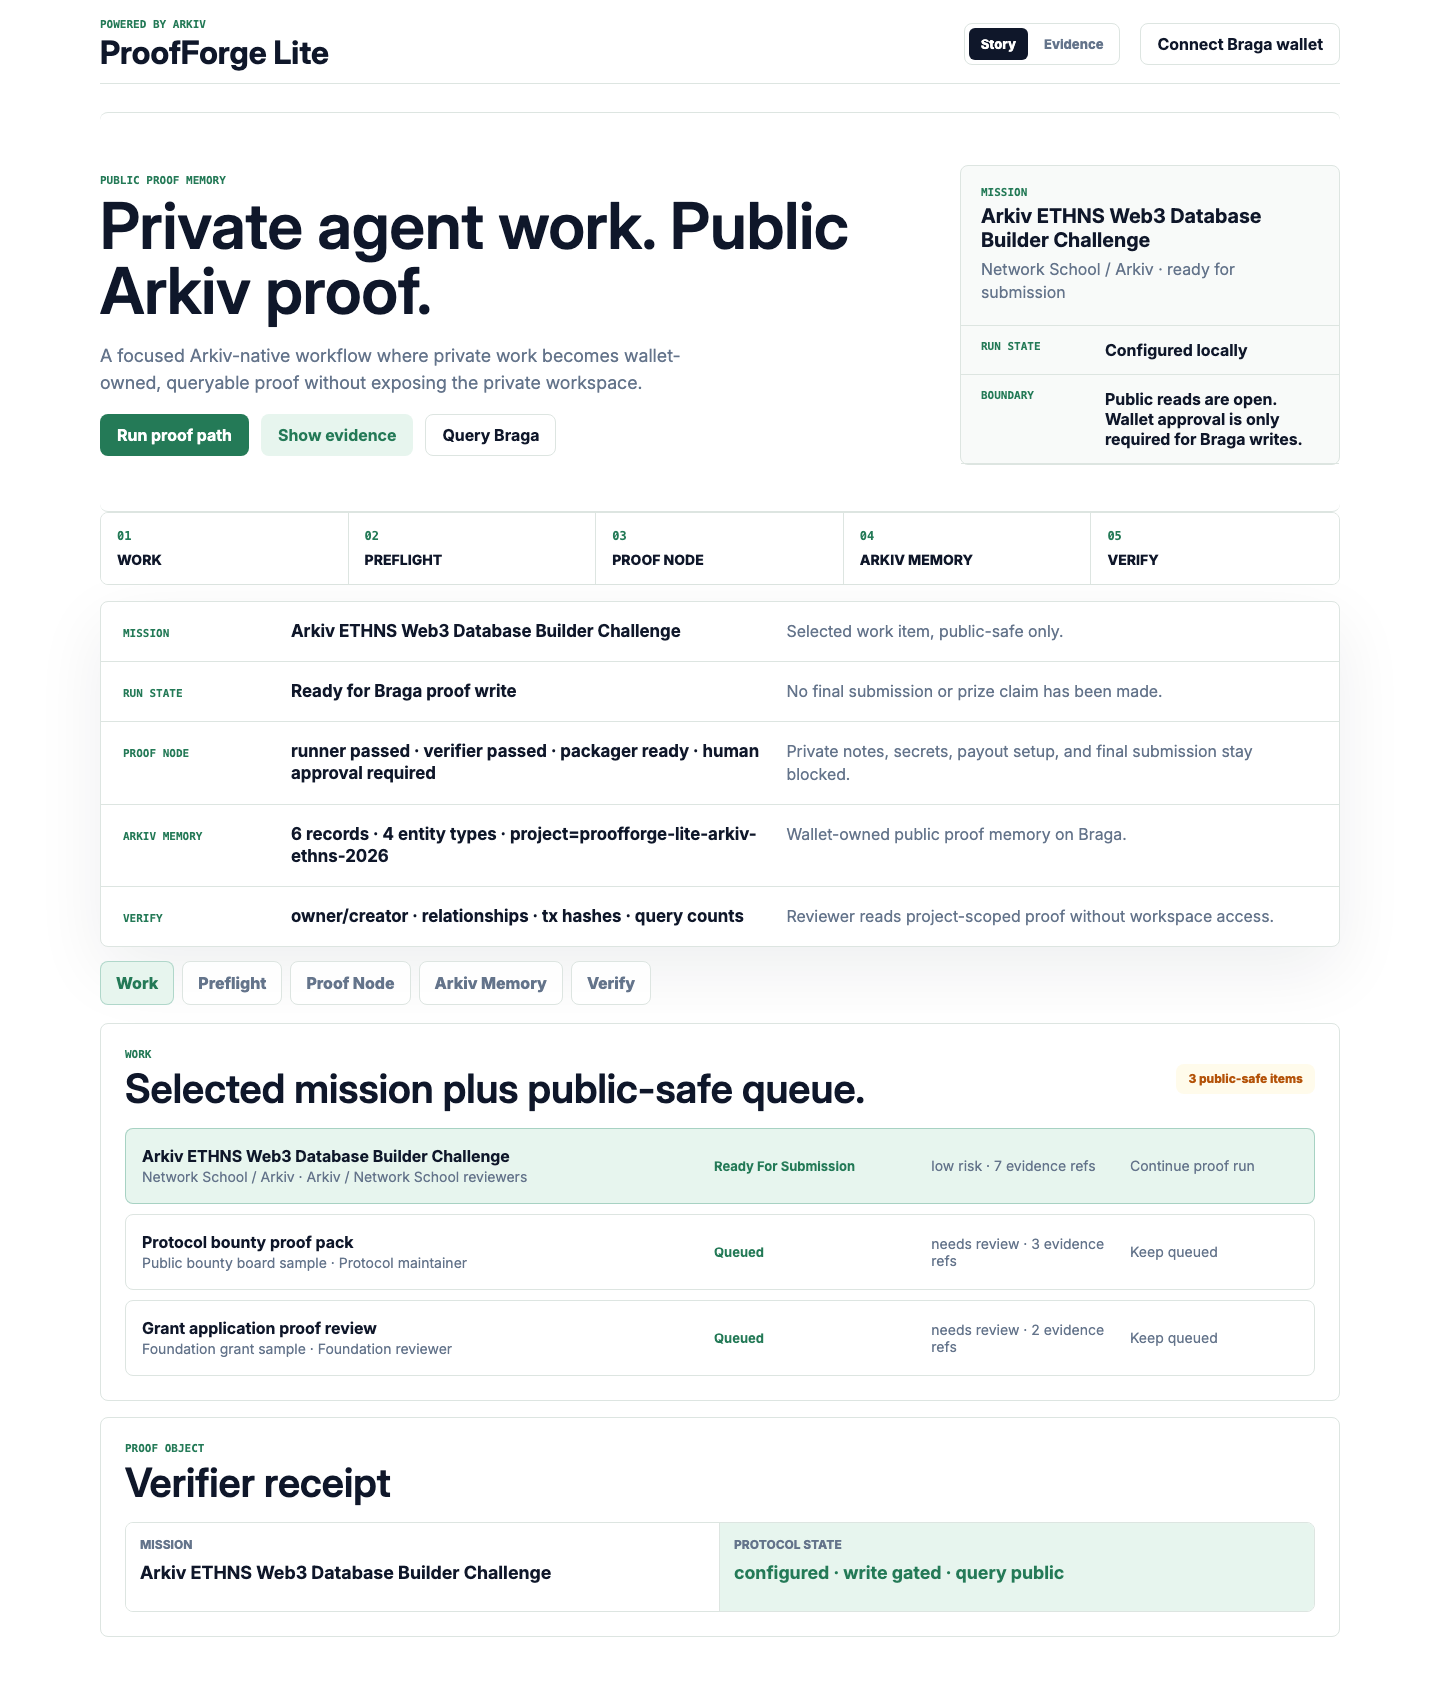
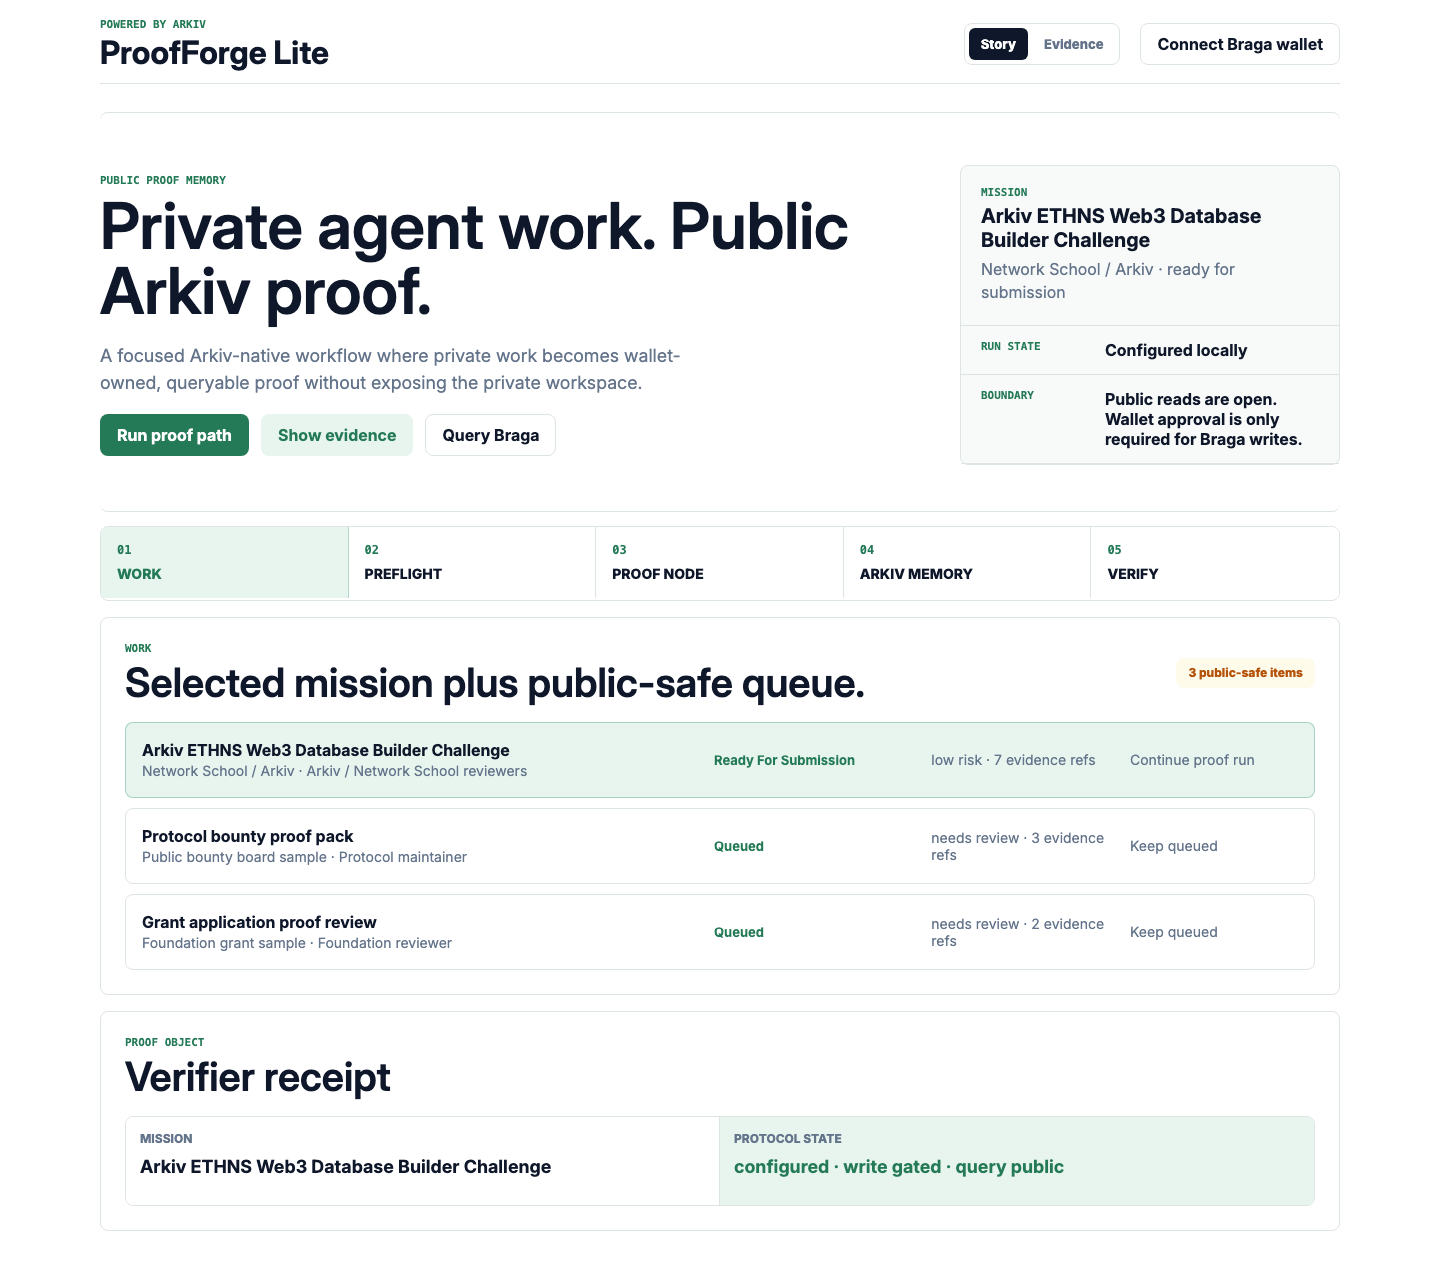
Remove duplicate front page protocol panel

diff --git a/web/index.html b/web/index.html
@@ -63,48 +63,27 @@
         </aside>
       </section>
 
-      <section class="proof-path" aria-label="ProofForge Lite protocol strip">
-        <span><small>01</small>Work</span>
-        <span><small>02</small>Preflight</span>
-        <span><small>03</small>Proof node</span>
-        <span><small>04</small>Arkiv memory</span>
-        <span><small>05</small>Verify</span>
-      </section>
-
-      <section class="protocol-panel" aria-label="Live ProofForge Lite system">
-        <div class="protocol-row">
-          <p class="label">Mission</p>
-          <strong>Arkiv ETHNS Web3 Database Builder Challenge</strong>
-          <span>Selected work item, public-safe only.</span>
-        </div>
-        <div class="protocol-row">
-          <p class="label">Run state</p>
-          <strong>Ready for Braga proof write</strong>
-          <span>No final submission or prize claim has been made.</span>
-        </div>
-        <div class="protocol-row">
-          <p class="label">Proof node</p>
-          <strong>runner passed · verifier passed · packager ready · human approval required</strong>
-          <span>Private notes, secrets, payout setup, and final submission stay blocked.</span>
-        </div>
-        <div class="protocol-row">
-          <p class="label">Arkiv memory</p>
-          <strong>6 records · 4 entity types · project=proofforge-lite-arkiv-ethns-2026</strong>
-          <span>Wallet-owned public proof memory on Braga.</span>
-        </div>
-        <div class="protocol-row">
-          <p class="label">Verify</p>
-          <strong>owner/creator · relationships · tx hashes · query counts</strong>
-          <span>Reviewer reads project-scoped proof without workspace access.</span>
-        </div>
-      </section>
-
-      <nav class="step-tabs" aria-label="ProofForge Lite flow">
-        <button class="step-tab active" data-step="work" type="button">Work</button>
-        <button class="step-tab" data-step="preflight" type="button">Preflight</button>
-        <button class="step-tab" data-step="packet" type="button">Proof Node</button>
-        <button class="step-tab" data-step="memory" type="button">Arkiv Memory</button>
-        <button class="step-tab" data-step="verify" type="button">Verify</button>
+      <nav class="proof-path step-tabs" aria-label="ProofForge Lite flow">
+        <button class="step-tab active" data-step="work" type="button" aria-label="Work">
+          <small>01</small>
+          Work
+        </button>
+        <button class="step-tab" data-step="preflight" type="button" aria-label="Preflight">
+          <small>02</small>
+          Preflight
+        </button>
+        <button class="step-tab" data-step="packet" type="button" aria-label="Proof Node">
+          <small>03</small>
+          Proof Node
+        </button>
+        <button class="step-tab" data-step="memory" type="button" aria-label="Arkiv Memory">
+          <small>04</small>
+          Arkiv Memory
+        </button>
+        <button class="step-tab" data-step="verify" type="button" aria-label="Verify">
+          <small>05</small>
+          Verify
+        </button>
       </nav>
 
       <section class="step-panel active" data-step="work">
@@ -132,6 +111,7 @@
             <div class="boundary-grid">
               <span>Allowed: local checks</span>
               <span>Allowed: public-safe packet</span>
+              <span>Proof node: runner passed · verifier passed · packager ready</span>
               <span>Blocked: final submission</span>
               <span>Blocked: wallet writes before approval</span>
             </div>
@@ -179,6 +159,8 @@
             <p class="label">Project-scoped queries</p>
             <h3>Reviewer reads proof history without workspace access.</h3>
             <div class="packet-list">
+              <span>project=proofforge-lite-arkiv-ethns-2026</span>
+              <span>wallet-owned public proof memory on Braga</span>
               <span>work items by status</span>
               <span>packets by status</span>
               <span>packets by source type</span>

diff --git a/web/styles.css b/web/styles.css
@@ -289,16 +289,28 @@ body[data-mode="story"] .technical-evidence {
   overflow: hidden;
 }
 
-.proof-path span {
+.proof-path .step-tab {
   position: relative;
+  display: block;
   min-height: 64px;
+  min-width: 0;
   border-right: 1px solid var(--line);
+  border-top: 0;
+  border-bottom: 0;
+  border-left: 0;
+  border-radius: 0;
   background: var(--panel);
   padding: 16px;
   color: var(--ink);
   font-size: 14px;
   font-weight: 850;
+  text-align: left;
   text-transform: uppercase;
+}
+
+.proof-path .step-tab.active {
+  background: var(--green-soft);
+  color: var(--green);
 }
 
 .proof-path small {
@@ -313,51 +325,11 @@ body[data-mode="story"] .technical-evidence {
   font-size: 12px;
 }
 
-.proof-path span:last-child {
+.proof-path .step-tab:last-child {
   border-right: 0;
 }
 
-.protocol-panel {
-  display: grid;
-  grid-template-columns: 1fr;
-  margin-top: 16px;
-  border: 1px solid var(--line);
-  border-radius: 8px;
-  background: var(--panel);
-  overflow: hidden;
-  box-shadow: var(--shadow);
-}
-
-.protocol-row {
-  display: grid;
-  grid-template-columns: 150px minmax(240px, 0.9fr) minmax(260px, 1fr);
-  gap: 18px;
-  align-items: baseline;
-  padding: 18px 22px;
-  border-bottom: 1px solid var(--line);
-}
-
-.protocol-row:last-child {
-  border-bottom: 0;
-}
-
-.protocol-row .label {
-  margin: 0;
-}
-
-.protocol-row strong {
-  display: block;
-  font-size: 17px;
-  line-height: 1.3;
-}
-
-.protocol-row span {
-  color: var(--muted);
-  line-height: 1.45;
-}
-
 .step-tabs {
-  gap: 8px;
   margin-top: 14px;
   overflow-x: auto;
   padding-bottom: 2px;
@@ -767,7 +739,6 @@ pre {
   .work-row,
   .split-grid,
   .proof-path,
-  .protocol-row,
   .fact-grid,
   .boundary-grid,
   .packet-list,
@@ -776,14 +747,14 @@ pre {
     grid-template-columns: 1fr;
   }
 
-  .proof-path span,
+  .proof-path .step-tab,
   .entity-card,
   .summary-card {
     border-right: 0;
     border-bottom: 1px solid var(--line);
   }
 
-  .proof-path span:last-child,
+  .proof-path .step-tab:last-child,
   .entity-card:last-child,
   .summary-card:last-child {
     border-bottom: 0;